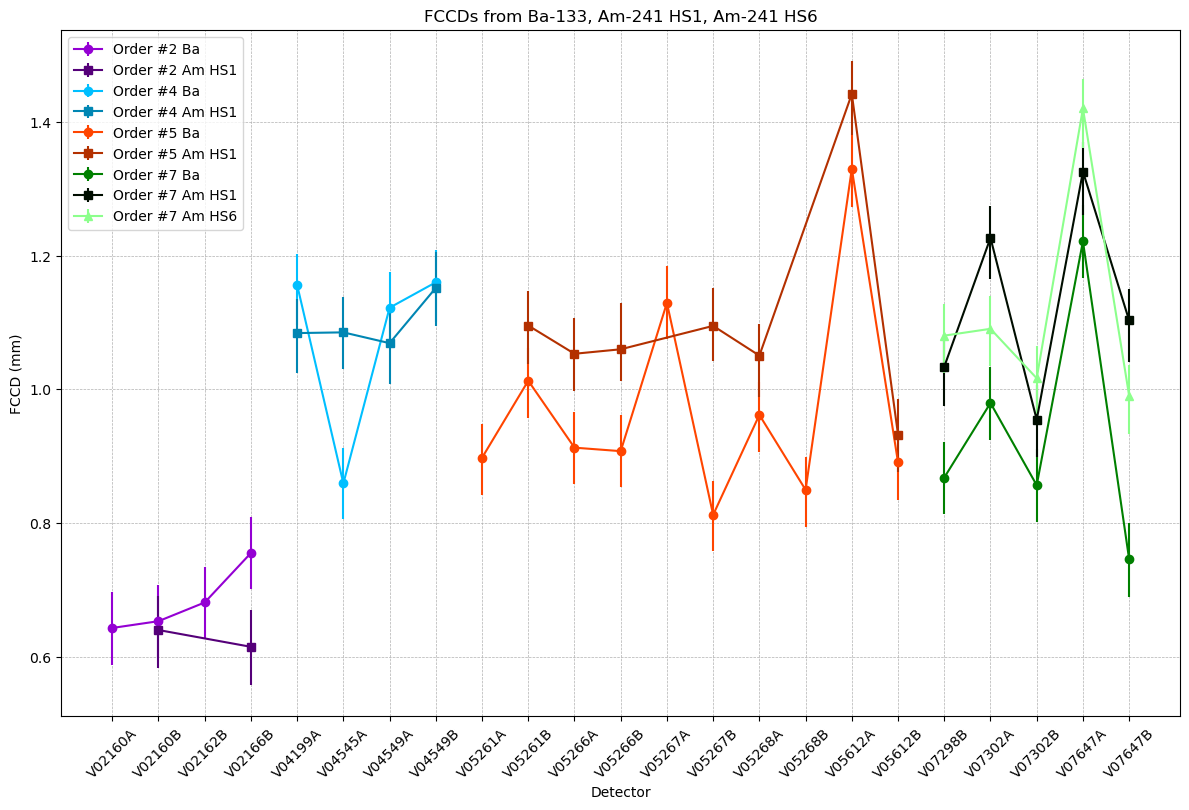
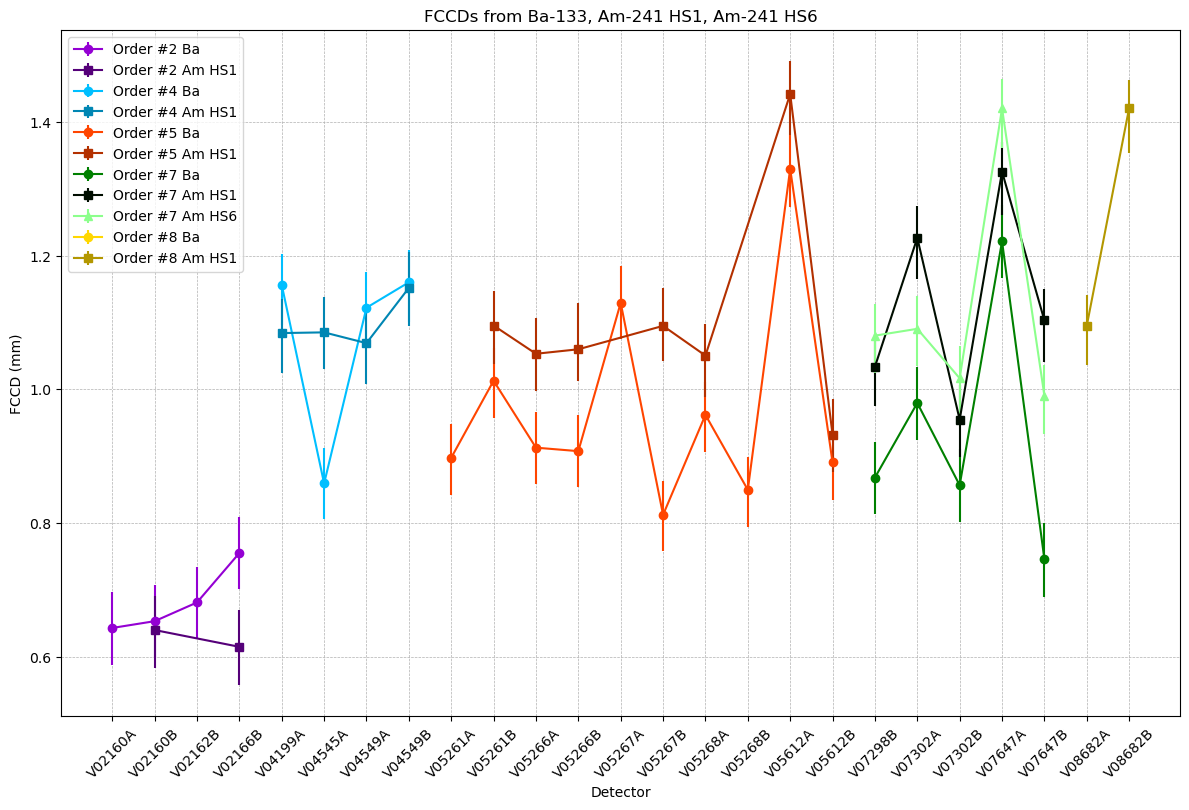
[new] order 8

diff --git a/Compare_FCCDs_Am_Ba.py b/Compare_FCCDs_Am_Ba.py
@@ -26,7 +26,7 @@ def main():
     detector_list = CodePath+"/detector_list.json"
     with open(detector_list) as json_file:
         detector_list_data = json.load(json_file)
-    order_list = [2,4,5,7]
+    order_list = [2,4,5,7,8]
 
     positions_list=CodePath+"/positions_am1_list.json"
     with open(positions_list) as json_file:
@@ -94,7 +94,8 @@ def main():
             #Am241 HS1
             if detector=='V02160A':
                 run=3
-                continue
+            if detector=='V08682A':
+                run=3
             elif detector=='V02166B' or detector =='V04545A':
                 run=2
             elif detector=='V02162B':
@@ -102,8 +103,7 @@ def main():
             else:
                 run=1
             position=positions_list_data[detector]
-            am1_FCCD_file = CodePath+"/Am241/FCCD/am_HS1/no_correction/FCCD_data_"+detector+"-am_HS1-"+position+"_"+smear+"_"+TL_model+"_fracFCCDbore"+str(frac_FCCDbore)+"_"+energy_filter+"_run"+str(run)+"_cuts.json"
-            #print(am1_FCCD_file)
+            am1_FCCD_file = CodePath+"/Am241/FCCD/am_HS1/weighted_mean/FCCD_data_"+detector+"-am_HS1-"+position+"_"+smear+"_"+TL_model+"_fracFCCDbore"+str(frac_FCCDbore)+"_"+energy_filter+"_run"+str(run)+"_cuts.json"
             try:
                 with open(am1_FCCD_file) as json_file_am1:
                     FCCD_data_am1 = json.load(json_file_am1)
@@ -138,6 +138,8 @@ def main():
         cc=''
         if order==7:
             cc='green'
+        elif order==8:
+            cc='gold'
         elif order==5:
             cc='orangered'
         elif order==4:
@@ -156,7 +158,7 @@ def main():
     plt.grid(linestyle='dashed', linewidth=0.5)
     plt.tight_layout()
     plt.title("FCCDs from Ba-133, Am-241 HS1, Am-241 HS6")
-    plt.savefig(CodePath+"/FCCDs_Ba133_Am241_no_correction.png", bbox_inches='tight')
+    plt.savefig(CodePath+"/FCCDs_Ba133_Am241_new_correction.png", bbox_inches='tight')
     plt.show()
 
 
